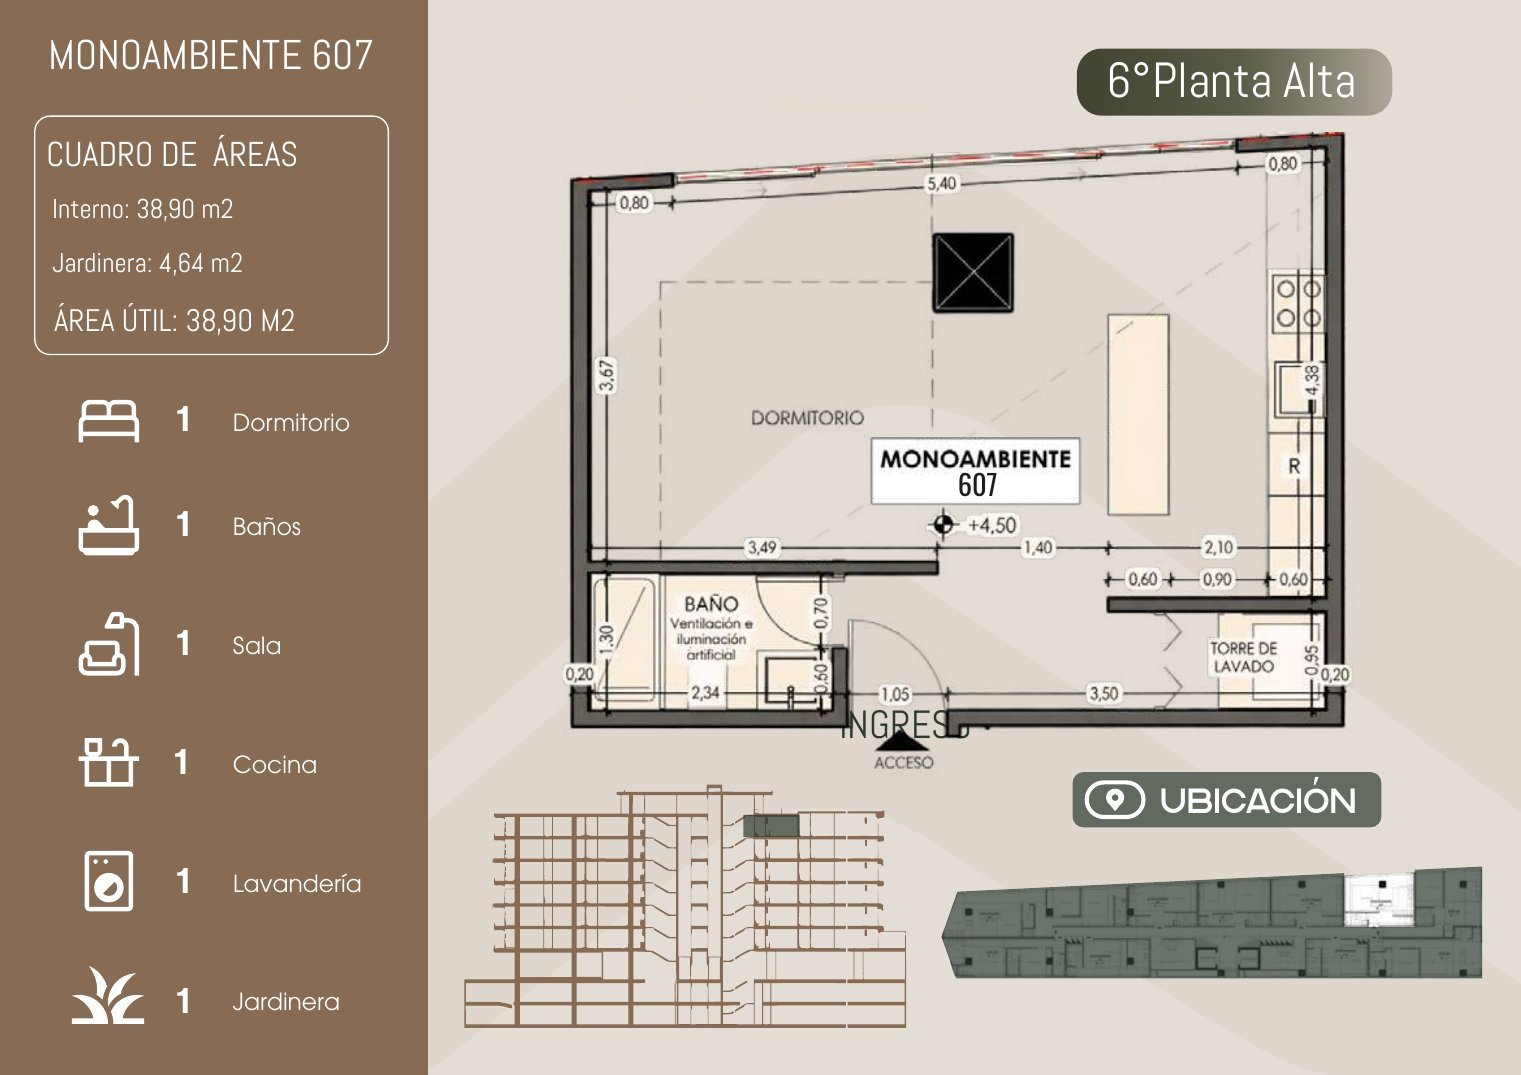
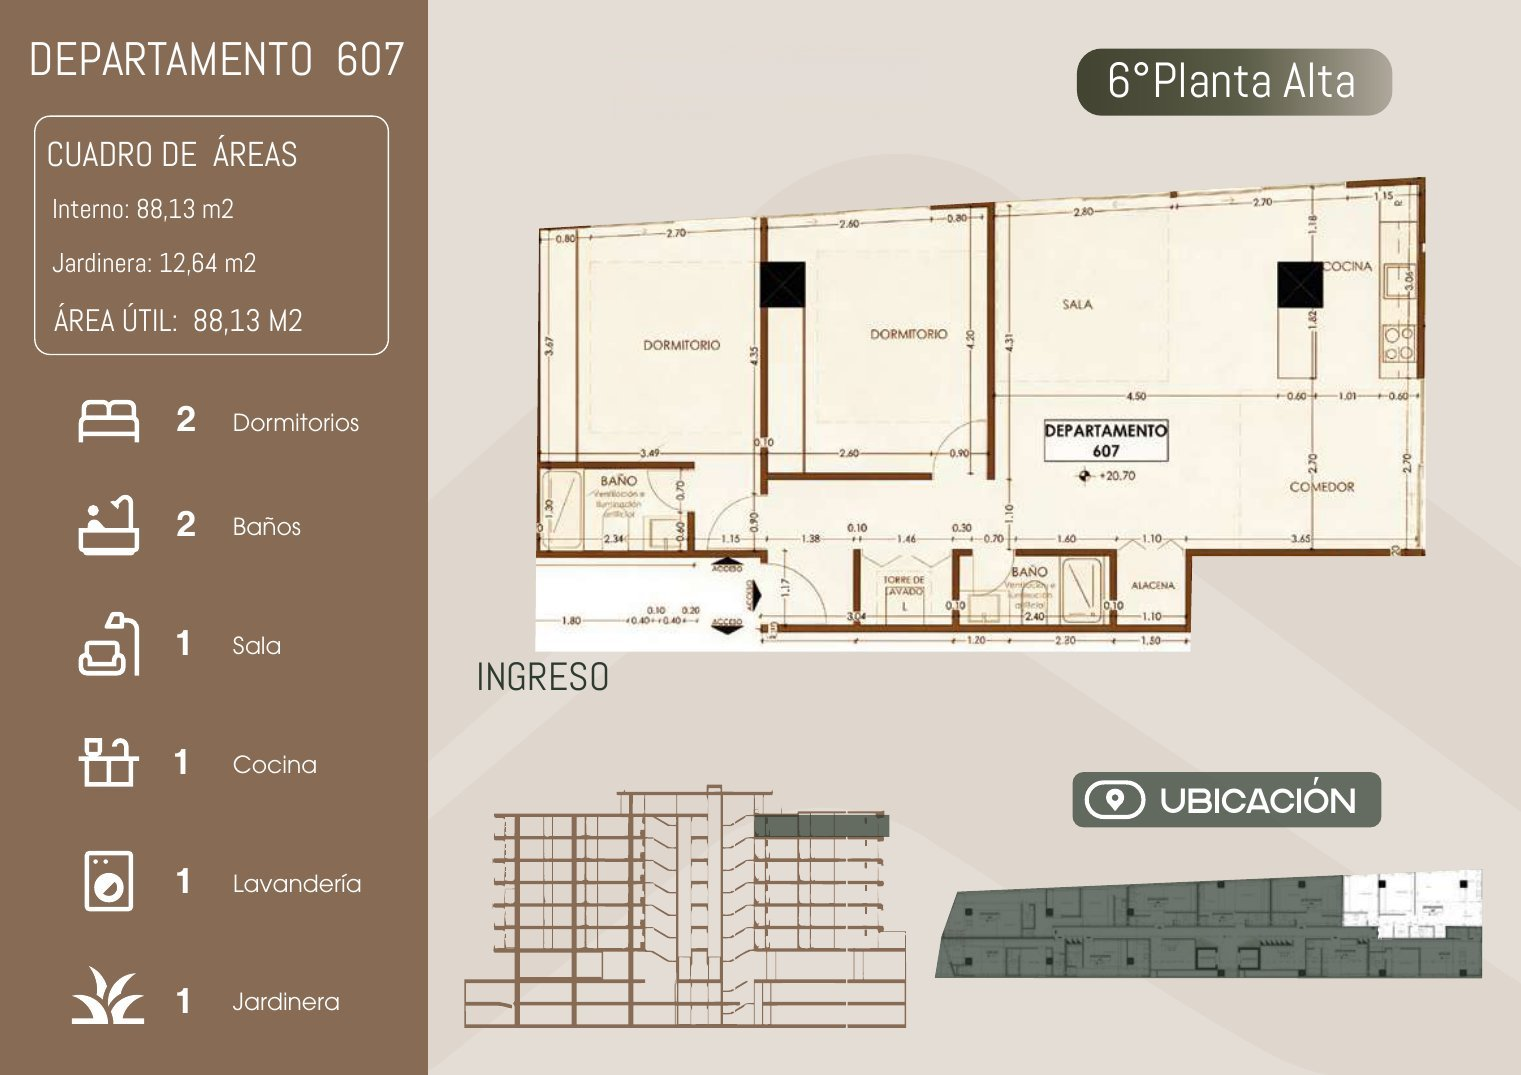
Arcus: Departamentos 403, 603 y 607 según el brochure A8
- La landing se contrasta con el A8: faltaba el Depto 603; el 403 y el 607
  pasan de Suite/Loft a Departamento (fichas nuevas sin la etiqueta de estado).
- Cifras: 62 unidades residenciales, 75 en total.
- codigo_cotizador reconoce DEPTO-* para la sincronización con el cotizador.
- supabase/15 ya está aplicado en la base.

Claude-Session: https://claude.ai/code/session_01W7AFxNNMBFuGyJqY4vdXRy

diff --git a/site/arcus/index.html b/site/arcus/index.html
@@ -5,7 +5,7 @@
 <base href="/arcus/">
 <meta name="viewport" content="width=device-width, initial-scale=1.0" />
 <title data-cms="seo.titulo" data-cms-label="Título de la página (pestaña y Google)">Arcus | Suites &amp; Lofts en Cuenca — Remigio Tamariz Crespo</title>
-<meta name="description" content="Arcus Suites & Lofts: 63 unidades residenciales, 7 locales comerciales y 6 islas en la calle Remigio Tamariz Crespo, Cuenca. A pasos del Centro Histórico y la Universidad de Cuenca."  data-cms-attr="content:seo.descripcion" data-cms-label="Descripción para Google" data-cms-type="textarea"/>
+<meta name="description" content="Arcus Suites & Lofts: 62 unidades residenciales, 7 locales comerciales y 6 islas en la calle Remigio Tamariz Crespo, Cuenca. A pasos del Centro Histórico y la Universidad de Cuenca."  data-cms-attr="content:seo.descripcion" data-cms-label="Descripción para Google" data-cms-type="textarea"/>
 <meta name="theme-color" content="#3a2c23" />
 <link rel="preconnect" href="https://fonts.googleapis.com">
 <link rel="preconnect" href="https://fonts.gstatic.com" crossorigin>
@@ -105,7 +105,7 @@
     </div>
 
     <div class="hero__stats" data-cms-list="inicio.lista-hero-stats" data-cms-label="Cifras de la portada" data-cms-noun="Cifra">
-      <div><strong data-count="63" data-cms-attr="data-count:cifra" data-cms-label="Cifra (número)" data-cms-type="number">0</strong><span data-cms="detalle" data-cms-label="Texto">Suites, lofts y departamentos</span></div>
+      <div><strong data-count="62" data-cms-attr="data-count:cifra" data-cms-label="Cifra (número)" data-cms-type="number">0</strong><span data-cms="detalle" data-cms-label="Texto">Suites, lofts y departamentos</span></div>
       <div><strong data-count="13" data-cms-attr="data-count:cifra" data-cms-label="Cifra (número)" data-cms-type="number">0</strong><span data-cms="detalle" data-cms-label="Texto">Locales e islas</span></div>
       <div><strong data-count="6" data-cms-attr="data-count:cifra" data-cms-label="Cifra (número)" data-cms-type="number">0</strong><span data-cms="detalle" data-cms-label="Texto">Plantas altas</span></div>
       <div><strong data-count="2" data-cms-attr="data-count:cifra" data-cms-label="Cifra (número)" data-cms-type="number">0</strong><span data-cms="detalle" data-cms-label="Texto">Subsuelos</span></div>
@@ -140,7 +140,7 @@
       <div class="about__media reveal">
         <img src="img/exterior/lateral.jpg" alt="Vista lateral del edificio Arcus" data-parallax  data-cms-img="proyecto.imagen" data-cms-label="Imagen"/>
         <div class="about__float">
-          <strong data-cms="proyecto.dato" data-cms-label="Dato destacado">76</strong>
+          <strong data-cms="proyecto.dato" data-cms-label="Dato destacado">75</strong>
           <span data-cms="proyecto.detalle" data-cms-label="Texto">Unidades en total</span>
         </div>
       </div>
@@ -151,7 +151,7 @@
         <p data-cms="proyecto.texto-2" data-cms-label="Párrafo 2" data-cms-type="textarea">Su arquitectura, pensada para adaptarse a las necesidades actuales, integra locales comerciales en la planta baja y exclusivas unidades de vivienda distribuidas en seis plantas altas. Dos niveles de subsuelo alojan parqueaderos, bodegas y zonas de servicios técnicos, garantizando máxima comodidad e independencia.</p>
         <p data-cms="proyecto.texto-3" data-cms-label="Párrafo 3" data-cms-type="textarea">Incorpora además áreas verdes en la primera planta alta y en la terraza, diseñadas para el esparcimiento y el bienestar de los residentes.</p>
         <div class="about__badges stagger" data-cms-list="proyecto.lista-about-badges" data-cms-label="Cifras destacadas" data-cms-noun="Cifra">
-          <div class="badge"><strong data-cms="dato" data-cms-label="Dato destacado">63</strong><span data-cms="detalle" data-cms-label="Texto">Suites, lofts y departamentos</span></div>
+          <div class="badge"><strong data-cms="dato" data-cms-label="Dato destacado">62</strong><span data-cms="detalle" data-cms-label="Texto">Suites, lofts y departamentos</span></div>
           <div class="badge"><strong data-cms="dato" data-cms-label="Dato destacado">13</strong><span data-cms="detalle" data-cms-label="Texto">Locales e islas</span></div>
           <div class="badge"><strong data-cms="dato" data-cms-label="Dato destacado">6</strong><span data-cms="detalle" data-cms-label="Texto">Plantas altas</span></div>
           <div class="badge"><strong data-cms="dato" data-cms-label="Dato destacado">2</strong><span data-cms="detalle" data-cms-label="Texto">Subsuelos</span></div>
@@ -234,14 +234,14 @@
     <div class="section-head reveal">
       <p class="eyebrow" data-cms="tipologias.etiqueta" data-cms-label="Sobretítulo">Suites &amp; Lofts</p>
       <h2 data-cms="tipologias.titulo" data-cms-label="Título">Encuentra tu espacio ideal</h2>
-      <p data-cms="tipologias.texto" data-cms-label="Párrafo" data-cms-type="textarea">63 unidades distribuidas en seis plantas altas. Haz clic en cualquier unidad para ver su ficha técnica completa.</p>
+      <p data-cms="tipologias.texto" data-cms-label="Párrafo" data-cms-type="textarea">62 unidades distribuidas en seis plantas altas. Haz clic en cualquier unidad para ver su ficha técnica completa.</p>
     </div>
 
     <div class="tabs-wrap reveal">
       <div class="tabs">
-        <button class="tab-btn is-active" data-tab="tab-suites"><span data-cms="tipologias.texto-2" data-cms-label="Texto del botón">Suites ·</span> <span id="countSuites">22</span></button>
-        <button class="tab-btn" data-tab="tab-lofts"><span data-cms="tipologias.texto-3" data-cms-label="Texto del botón">Lofts ·</span> <span id="countLofts">40</span></button>
-        <button class="tab-btn" data-tab="tab-deptos"><span data-cms="tipologias.texto-5" data-cms-label="Texto del botón">Departamentos ·</span> <span id="countDeptos">1</span></button>
+        <button class="tab-btn is-active" data-tab="tab-suites"><span data-cms="tipologias.texto-2" data-cms-label="Texto del botón">Suites ·</span> <span id="countSuites">20</span></button>
+        <button class="tab-btn" data-tab="tab-lofts"><span data-cms="tipologias.texto-3" data-cms-label="Texto del botón">Lofts ·</span> <span id="countLofts">38</span></button>
+        <button class="tab-btn" data-tab="tab-deptos"><span data-cms="tipologias.texto-5" data-cms-label="Texto del botón">Departamentos ·</span> <span id="countDeptos">4</span></button>
       </div>
     </div>
 
